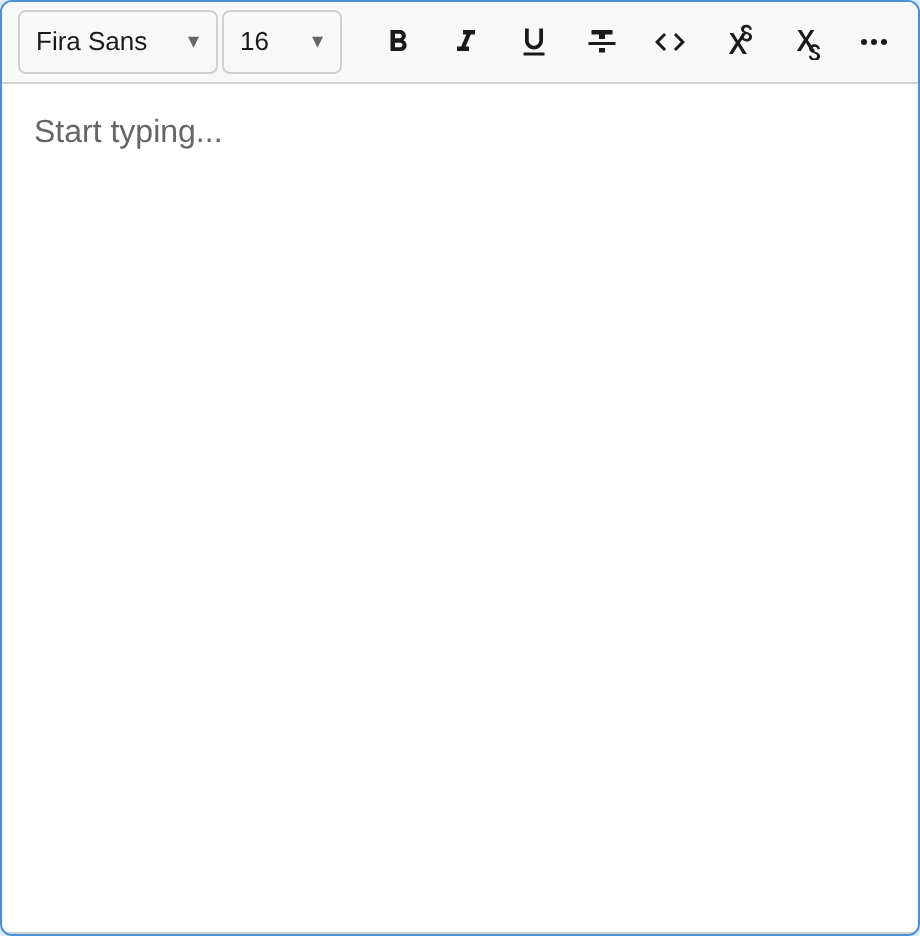
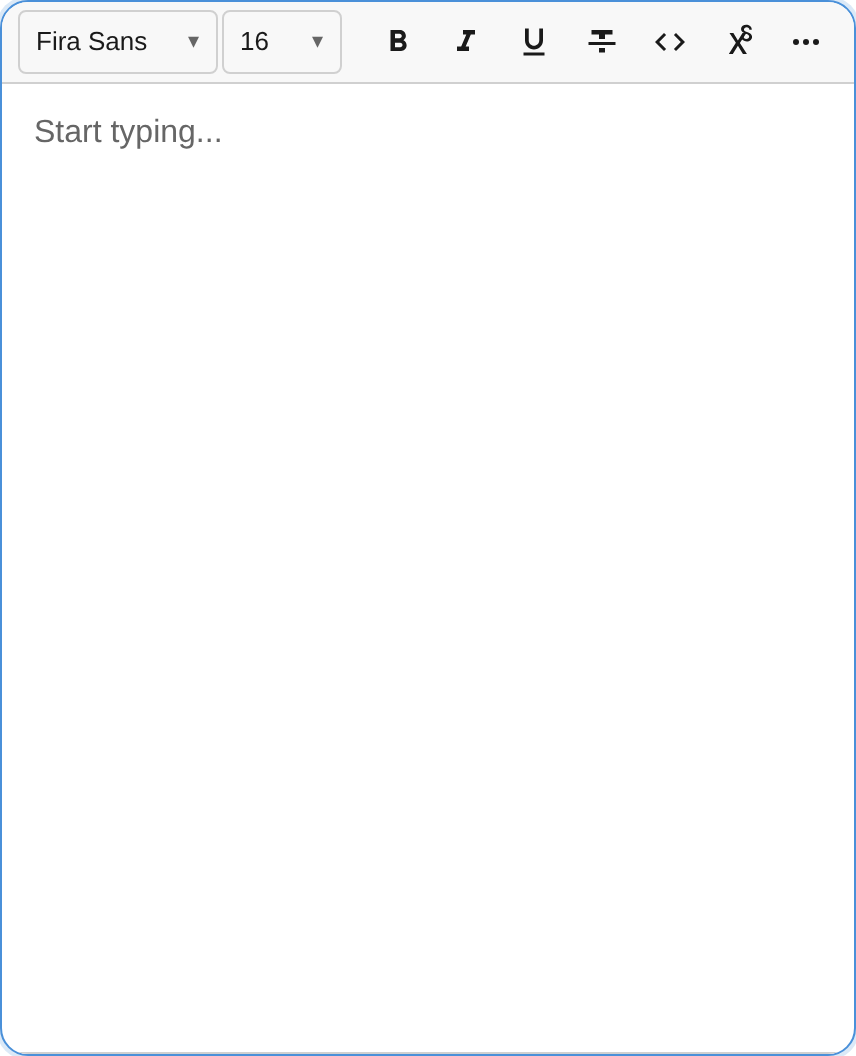
fix: update E2E tests and playground layout after inspector panel redesign
API tests referenced removed playground buttons (#btn-get-text, #btn-is-empty,
#btn-toggle-bold) — rewritten to call editor API directly. Playground grid used
bare `1fr` which let the editor overflow its track at narrow viewports; switched
to `minmax(0, 1fr)` so the toolbar overflow controller measures correctly.

Changed region(s): [[0.0, 0.0, 1.0, 0.1549], [0.0, 0.9605, 1.0, 1.0], [0.972, 0.0, 1.0, 0.031]]

diff --git a/e2e/generate-screenshots.spec.ts b/e2e/generate-screenshots.spec.ts
@@ -110,14 +110,17 @@ function link(href: string): MarkDef {
 
 async function cleanPage(page: Page): Promise<void> {
 	await page.evaluate(() => {
-		for (const sel of ['h1', '.subtitle', '.controls', '.output']) {
+		for (const sel of ['.header', '.inspect-panel', '.actions-bar']) {
 			const el: HTMLElement | null = document.querySelector(sel);
 			if (el) el.style.display = 'none';
 		}
 		document.body.style.background = '#ffffff';
 		document.body.style.padding = '32px 20px';
-		const app: HTMLElement | null = document.querySelector('.app');
-		if (app) app.style.maxWidth = '960px';
+		const main: HTMLElement | null = document.querySelector('.main');
+		if (main) {
+			main.style.display = 'block';
+			main.style.maxWidth = '960px';
+		}
 	});
 }
 
@@ -156,12 +159,20 @@ async function setPaperSize(page: Page, size: string | null): Promise<void> {
 }
 
 async function setBurgerMenuOverflow(page: Page): Promise<void> {
-	await page.evaluate(() => {
-		const editor = document.querySelector('notectl-editor') as unknown as {
-			pluginManager: { get(id: string): { setOverflowBehavior(b: string): void } };
-		};
-		editor.pluginManager.get('toolbar').setOverflowBehavior('burger-menu');
-	});
+	await page.evaluate(
+		() =>
+			new Promise<void>((resolve) => {
+				const editor = document.querySelector('notectl-editor') as unknown as {
+					pluginManager: {
+						get(id: string): { setOverflowBehavior(b: string): void };
+					};
+				};
+				editor.pluginManager.get('toolbar').setOverflowBehavior('burger-menu');
+				// Wait two frames so the browser lays out new toolbar buttons
+				// and ResizeObserver fires with correct widths
+				requestAnimationFrame(() => requestAnimationFrame(() => resolve()));
+			}),
+	);
 }
 
 async function setMinHeight(page: Page, px: string): Promise<void> {

diff --git a/e2e/api.spec.ts b/e2e/api.spec.ts
@@ -53,28 +53,35 @@ test.describe('API', () => {
 		expect(html).toContain('<em>');
 	});
 
-	test('getText returns plain text', async ({ editor, page }) => {
+	test('getText returns plain text', async ({ editor }) => {
 		await editor.typeText('Hello');
-		await page.click('#btn-get-text');
-		const output = await page.locator('#output').innerText();
-		expect(output.trim()).toBe('Hello');
+		const text = await editor.getText();
+		expect(text.trim()).toBe('Hello');
 	});
 
 	test('isEmpty returns correct value', async ({ editor, page }) => {
-		await page.click('#btn-is-empty');
-		let output = await page.locator('#output').innerText();
-		expect(output).toContain('true');
+		const emptyBefore = await page.evaluate(() =>
+			(document.querySelector('notectl-editor') as unknown as { isEmpty(): boolean }).isEmpty(),
+		);
+		expect(emptyBefore).toBe(true);
 
 		await editor.typeText('Hi');
-		await page.click('#btn-is-empty');
-		output = await page.locator('#output').innerText();
-		expect(output).toContain('false');
+		const emptyAfter = await page.evaluate(() =>
+			(document.querySelector('notectl-editor') as unknown as { isEmpty(): boolean }).isEmpty(),
+		);
+		expect(emptyAfter).toBe(false);
 	});
 
 	test('API toggle bold', async ({ editor, page }) => {
 		await editor.typeText('Hello');
 		await page.keyboard.press('Control+a');
-		await page.click('#btn-toggle-bold');
+		await page.evaluate(() =>
+			(
+				document.querySelector('notectl-editor') as unknown as {
+					executeCommand(cmd: string): boolean;
+				}
+			).executeCommand('toggleBold'),
+		);
 
 		const html = await editor.getContentHTML();
 		expect(html).toContain('<strong>');

diff --git a/examples/vanillajs/index.html b/examples/vanillajs/index.html
@@ -126,14 +126,14 @@
 			margin: 0 auto;
 			padding: 24px 32px 48px;
 			display: grid;
-			grid-template-columns: 1fr 420px;
+			grid-template-columns: minmax(0, 1fr) 420px;
 			grid-template-rows: 1fr auto;
 			gap: 16px 24px;
 		}
 
 		@media (max-width: 960px) {
 			.main {
-				grid-template-columns: 1fr;
+				grid-template-columns: minmax(0, 1fr);
 				padding: 16px;
 			}
 		}
